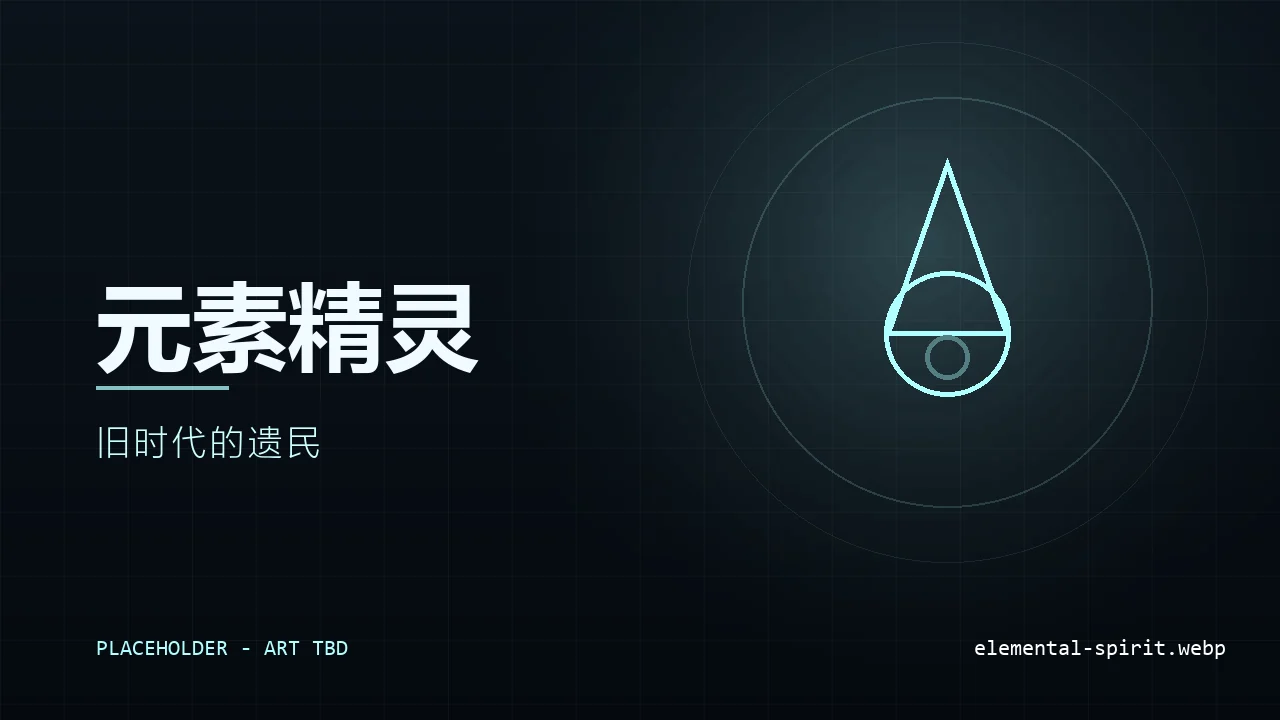
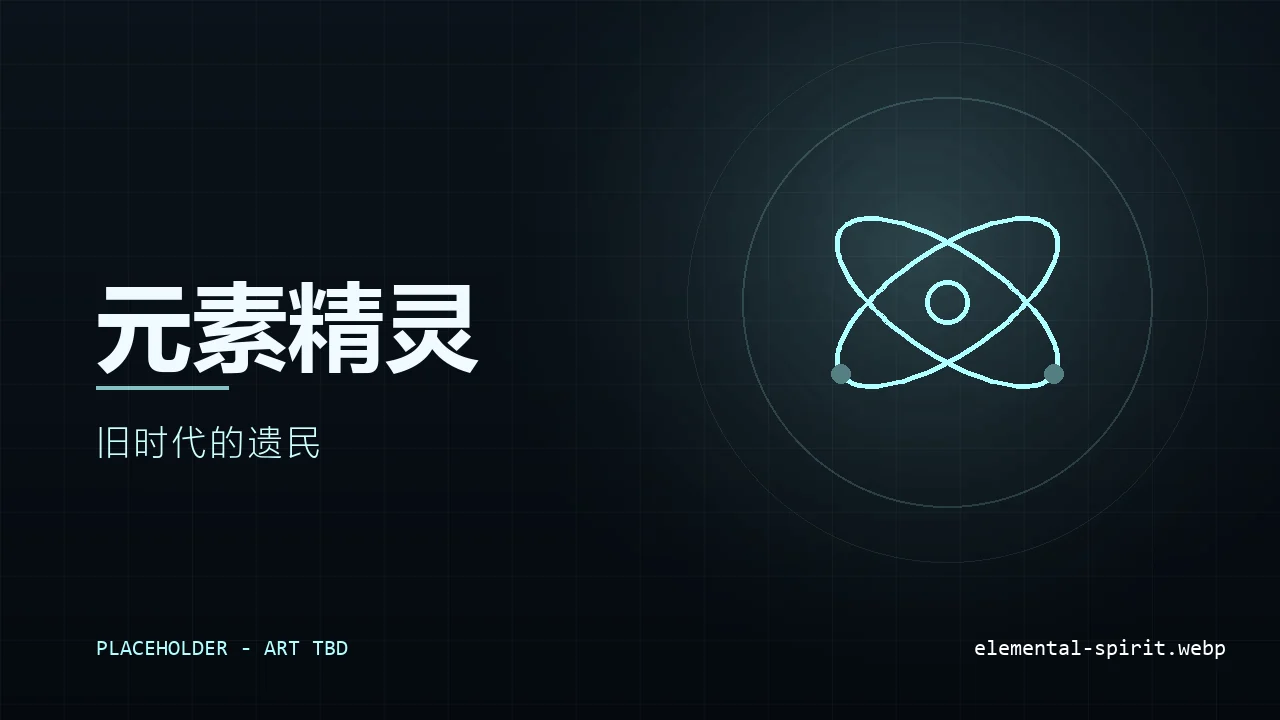
feat: 重画 8 枚种族徽记的符号
按反馈改了 13 枚占位徽记里的一批符号（仍是细线几何画法，没有换风格）：

- 元素精灵：水滴 → 原子（核 + 两条交叉轨道），突出「元素」
- 天翼种：翅膀 → 纸飞机（风）
- 晶裔：棱柱 → 切好的宝石（冠部收到腰线、亭部收成谷底）
- 雪狐一族：雪花侧枝压到 60°、长度只有主臂 1/6，中心加小六边形（原来像六支箭）
- 精灵族：菱形叶 → 两条对称弧拼的叶形，侧脉朝叶尖弯
- 血族：蔷薇 → 血滴，一笔闭合轮廓、不留中间横线
- 亚人：两块方块的「夹缝」→ 猫猫头
- 恶魔：修掉右边那道弧的角度（原来没做镜像，看着歪），两边现在对称

其余五枚（人类 / 龙族 / 天使 / 神界使 / 邪神）未动。
生成脚本 tools/build-race-badges.py 同步更新；产物 8 张 webp 重新生成。

构建 166 页；site-health 全绿。

Changed region(s): [[0.6562, 0.2139, 0.8438, 0.55], [0.8125, 0.3056, 0.8438, 0.3972], [0.625, 0.4889, 0.6562, 0.5194]]

diff --git a/tools/build-race-badges.py b/tools/build-race-badges.py
@@ -40,19 +40,24 @@ BASE_BOTTOM = (9, 17, 26)
 与站上的青色主调都能搭上。
 """
 RACES = [
-    ("elemental-spirit", "元素精灵", "#AFFFFF", "旧时代的遗民", "droplet"),
-    ("winged", "天翼种", "#8FD8FF", "未来过去的光影", "wing"),
-    ("crystal-kin", "晶裔", "#9BE7E0", "信息的闪光", "prism"),
+    # 「元素」用原子（核 + 两条轨道）—— 比一滴水更能说明这一族是什么
+    ("elemental-spirit", "元素精灵", "#AFFFFF", "旧时代的遗民", "atom"),
+    # 翅膀换成纸飞机：既是飞行，也顺着「风」的方向
+    ("winged", "天翼种", "#8FD8FF", "未来过去的光影", "plane"),
+    # 棱柱换成多面体：宝石的切面比单薄的菱形更像「晶体」
+    ("crystal-kin", "晶裔", "#9BE7E0", "信息的闪光", "polyhedron"),
     ("human", "人类", "#FFD68A", "新世界的火种", "flame"),
     ("elf", "精灵族", "#8FDC9B", "名为信仰的诅咒", "leaf"),
     ("snowfox", "雪狐一族", "#D8ECFF", "冰雪中的晶花", "snowflake"),
-    ("vampire", "血族", "#E06A7A", "染上血色的蔷薇", "rose"),
+    # 蔷薇换成血滴：这是血族，不是花店
+    ("vampire", "血族", "#E06A7A", "染上血色的蔷薇", "droplet"),
     ("dragon", "龙族", "#E8B45C", "天下无敌（物理）", "scale"),
     ("angel", "天使", "#F4E7A8", "秩序的维护者", "halo"),
     ("divine-envoy", "神界使", "#C9A8FF", "眼中再无星辰", "star"),
     ("demon", "恶魔", "#C0605F", "混乱的可能性", "horn"),
     ("evil-god", "邪神", "#A66BE0", "千分之一的可能", "eye"),
-    ("demi-human", "亚人", "#B9C6A8", "存在于新旧秩序的夹缝中", "duality"),
+    # 猫猫头：亚人先认这一支最直白的样子
+    ("demi-human", "亚人", "#B9C6A8", "存在于新旧秩序的夹缝中", "cat"),
 ]
 
 
@@ -95,57 +100,167 @@ def draw_glyph(draw, name, cx, cy, s, color):
     注意：PIL 的 polygon / arc 只吃整数坐标，这里统一把点取整 ——
     否则浮点会抛 TypeError（踩过）。
     """
+    cx, cy, s = round(cx), round(cy), s
+    line = max(3, round(s / 26))
+    fine = max(2, line - 1)
+    faint = mix(color, (10, 20, 30), 0.55)
+
     def P(pts):
         return [(round(x), round(y)) for x, y in pts]
 
     def box(x0, y0, x1, y1):
         return [round(x0), round(y0), round(x1), round(y1)]
 
-    cx, cy, s = round(cx), round(cy), s
-    line = max(3, round(s / 26))
-    faint = mix(color, (10, 20, 30), 0.55)
+    def stroke(pts, tone=None, width=None):
+        """折线：joint='curve' 让拐点不出现缺口（PIL 默认会在转角处断开）"""
+        draw.line(P(pts), fill=tone or color, width=width or line, joint="curve")
 
-    if name == "droplet":
-        # 用「圆 + 尖顶」拼水滴，比方块状的多边形顺眼
-        r = s * 0.46
-        draw.ellipse(box(cx - r, cy - r * 0.5, cx + r, cy + r * 1.5), outline=color, width=line)
-        draw.polygon(P([(cx, cy - s * 1.05), (cx + r * 0.98, cy + r * 0.52), (cx - r * 0.98, cy + r * 0.52)]), outline=color, width=line)
-        draw.ellipse(box(cx - s * 0.16, cy + s * 0.24, cx + s * 0.16, cy + s * 0.56), outline=faint, width=line)
-    elif name == "wing":
+    def ellipse_ring(rx, ry, rot=0.0, steps=120):
+        """可旋转的椭圆点列 —— PIL 只能画正的椭圆，斜的轨道得自己算"""
+        pts = []
+        for i in range(steps + 1):
+            t = 2 * math.pi * i / steps
+            ex, ey = math.cos(t) * rx, math.sin(t) * ry
+            pts.append(
+                (
+                    cx + ex * math.cos(rot) - ey * math.sin(rot),
+                    cy + ex * math.sin(rot) + ey * math.cos(rot),
+                )
+            )
+        return pts
+
+    if name == "atom":
+        # 「元素」最直白的写法：原子核 + 两条交叉轨道 + 两颗电子
+        r = s * 0.16
+        draw.ellipse(box(cx - r, cy - r, cx + r, cy + r), outline=color, width=line)
+        for rot in (math.radians(34), math.radians(-34)):
+            stroke(ellipse_ring(s * 0.94, s * 0.38, rot))
+        for rot, t in ((math.radians(34), 0.0), (math.radians(-34), math.pi)):
+            ex, ey = math.cos(t) * s * 0.94, math.sin(t) * s * 0.38
+            px = cx + ex * math.cos(rot) - ey * math.sin(rot)
+            py = cy + ex * math.sin(rot) + ey * math.cos(rot)
+            rr = s * 0.07
+            draw.ellipse(box(px - rr, py - rr, px + rr, py + rr), fill=faint)
+    elif name == "plane":
+        # 纸飞机：两块翼面沿中缝折起，尾巴留一个 V 口
+        nose = (cx + s * 0.98, cy - s * 0.52)
+        up_tip = (cx - s * 0.95, cy - s * 0.34)
+        fold = (cx - s * 0.08, cy - s * 0.02)
+        low_tip = (cx - s * 0.52, cy + s * 0.86)
+        draw.polygon(P([nose, up_tip, fold]), outline=color, width=line)
+        draw.polygon(P([nose, fold, low_tip]), outline=color, width=line)
+        stroke([nose, fold], faint, fine)
+    elif name == "polyhedron":
+        # 多面体：一颗切好的宝石 —— 冠部（顶边收到腰线）+ 腰线 + 亭部收成谷底
+        hw = s * 0.68
+        top = cy - s * 0.86
+        waist = cy - s * 0.22
+        bot = cy + s * 0.92
+        outline = [
+            (cx - hw * 0.58, top),
+            (cx + hw * 0.58, top),
+            (cx + hw, waist),
+            (cx, bot),
+            (cx - hw, waist),
+        ]
+        draw.polygon(P(outline), outline=color, width=line)
+        # 冠部：顶边两道斜面收到腰线
+        stroke(
+            [
+                (cx - hw * 0.58, top),
+                (cx - hw * 0.26, waist),
+                (cx + hw * 0.26, waist),
+                (cx + hw * 0.58, top),
+            ],
+            faint,
+            fine,
+        )
+        # 亭部：从腰线收到谷底
         for side in (-1, 1):
-            pts = [(cx, cy + s * 0.45)]
-            for i in range(4):
-                pts.append((cx + side * s * (0.42 + 0.34 * i), cy + s * (0.22 - 0.3 * i)))
-            pts.append((cx, cy - s * 0.15))
-            draw.polygon(P(pts), outline=color, width=line)
-        draw.ellipse(box(cx - s * 0.34, cy - s * 0.3, cx + s * 0.34, cy + s * 0.38), outline=faint, width=line)
-    elif name == "prism":
-        draw.polygon(P([(cx, cy - s * 0.9), (cx + s * 0.8, cy), (cx, cy + s * 0.9), (cx - s * 0.8, cy)]), outline=color, width=line)
-        for dx in (-0.45, 0, 0.45):
-            draw.line(P([(cx + s * dx, cy - s * 0.9 + abs(dx) * s), (cx + s * dx, cy + s * 0.9 - abs(dx) * s)]), fill=faint, width=max(2, line - 1))
+            stroke([(cx + side * hw, waist), (cx, bot)], faint, fine)
     elif name == "flame":
-        draw.polygon(P([(cx, cy - s), (cx + s * 0.55, cy + s * 0.1), (cx + s * 0.22, cy + s * 0.8), (cx - s * 0.22, cy + s * 0.8), (cx - s * 0.55, cy + s * 0.1)]), outline=color, width=line)
-        draw.polygon(P([(cx, cy - s * 0.1), (cx + s * 0.2, cy + s * 0.55), (cx - s * 0.2, cy + s * 0.55)]), outline=faint, width=line)
+        draw.polygon(
+            P(
+                [
+                    (cx, cy - s),
+                    (cx + s * 0.55, cy + s * 0.1),
+                    (cx + s * 0.22, cy + s * 0.8),
+                    (cx - s * 0.22, cy + s * 0.8),
+                    (cx - s * 0.55, cy + s * 0.1),
+                ]
+            ),
+            outline=color,
+            width=line,
+        )
+        draw.polygon(
+            P([(cx, cy - s * 0.1), (cx + s * 0.2, cy + s * 0.55), (cx - s * 0.2, cy + s * 0.55)]),
+            outline=faint,
+            width=line,
+        )
     elif name == "leaf":
-        draw.polygon(P([(cx, cy - s * 0.95), (cx + s * 0.62, cy), (cx, cy + s * 0.95), (cx - s * 0.62, cy)]), outline=color, width=line)
-        draw.line(P([(cx, cy - s * 0.9), (cx, cy + s * 0.9)]), fill=faint, width=max(2, line - 1))
-        for k in (-0.45, 0, 0.45):
-            draw.line(P([(cx, cy + s * k), (cx + s * 0.5, cy + s * k - s * 0.34)]), fill=faint, width=max(2, line - 1))
-            draw.line(P([(cx, cy + s * k), (cx - s * 0.5, cy + s * k - s * 0.34)]), fill=faint, width=max(2, line - 1))
+        # 叶：两条对称的弧拼出叶形（菱形太硬），中脉 + 三对朝叶尖弯的侧脉
+        tip_y, base_y = cy - s * 0.98, cy + s * 0.88
+        for side in (-1, 1):
+            pts = []
+            for i in range(41):
+                t = i / 40
+                half = s * 0.60 * (math.sin(math.pi * t) ** 0.8)
+                pts.append((cx + side * half, base_y + (tip_y - base_y) * t))
+            stroke(pts)
+        stroke([(cx, tip_y), (cx, base_y)], faint, fine)
+        for f in (0.28, 0.48, 0.68):
+            y0 = base_y + (tip_y - base_y) * f
+            half = s * 0.60 * (math.sin(math.pi * f) ** 0.8)
+            for side in (-1, 1):
+                stroke([(cx, y0), (cx + side * half * 0.78, y0 - s * 0.20)], faint, fine)
     elif name == "snowflake":
+        # 雪花：六道主臂 + 短侧枝 + 中心小六边形。
+        # 侧枝原来又长又朝外，看着像六支箭；现在压短、压低角度。
         for i in range(6):
             a = math.radians(60 * i - 90)
-            x2, y2 = cx + math.cos(a) * s, cy + math.sin(a) * s
-            draw.line(P([(cx, cy), (x2, y2)]), fill=color, width=line)
-            for f in (0.55, 0.78):
-                bx, by = cx + math.cos(a) * s * f, cy + math.sin(a) * s * f
-                for da in (-0.6, 0.6):
-                    draw.line(P([(bx, by), (bx + math.cos(a + da) * s * 0.26, by + math.sin(a + da) * s * 0.26)]), fill=faint, width=max(2, line - 1))
-    elif name == "rose":
-        draw.ellipse(box(cx - s * 0.62, cy - s * 0.95, cx + s * 0.62, cy + s * 0.29), outline=color, width=line)
-        draw.ellipse(box(cx - s * 0.34, cy - s * 0.64, cx + s * 0.34, cy - s * 0.02), outline=faint, width=line)
-        draw.line(P([(cx, cy + s * 0.29), (cx, cy + s * 0.98)]), fill=color, width=line)
-        draw.line(P([(cx, cy + s * 0.62), (cx + s * 0.46, cy + s * 0.34)]), fill=faint, width=line)
+            stroke([(cx, cy), (cx + math.cos(a) * s * 0.98, cy + math.sin(a) * s * 0.98)])
+            for f in (0.38, 0.64):
+                bx = cx + math.cos(a) * s * f
+                by = cy + math.sin(a) * s * f
+                # 侧枝压到 60°、长度只有主臂的 1/6 —— 再长就成箭头了
+                for da in (-1.05, 1.05):
+                    stroke(
+                        [
+                            (bx, by),
+                            (bx + math.cos(a + da) * s * 0.16, by + math.sin(a + da) * s * 0.16),
+                        ],
+                        faint,
+                        fine,
+                    )
+        r0 = s * 0.15
+        draw.polygon(
+            P(
+                [
+                    (cx + math.cos(math.radians(60 * k - 90)) * r0, cy + math.sin(math.radians(60 * k - 90)) * r0)
+                    for k in range(6)
+                ]
+            ),
+            outline=color,
+            width=fine,
+        )
+    elif name == "droplet":
+        # 血滴：一笔闭合的轮廓（尖顶 + 圆底），中间不留横线
+        r = s * 0.50
+        cy_c = cy + s * 0.50
+        pts = [(cx, cy - s * 1.05)]
+        for k in range(61):
+            a = math.pi * (1 - k / 60)
+            pts.append((cx + math.cos(a) * r, cy_c + math.sin(a) * r))
+        pts.append((cx, cy - s * 1.05))
+        draw.polygon(P(pts), outline=color, width=line)
+        # 左上角一点高光，斜着的短弧，比画一个圆圈干净
+        draw.arc(
+            box(cx - s * 0.36, cy + s * 0.10, cx - s * 0.02, cy + s * 0.44),
+            120,
+            250,
+            fill=faint,
+            width=fine,
+        )
     elif name == "scale":
         r = s * 0.34
         for row, y in enumerate((cy - s * 0.6, cy - s * 0.12, cy + s * 0.36)):
@@ -160,7 +275,16 @@ def draw_glyph(draw, name, cx, cy, s, color):
         draw.ellipse(box(cx - s * 0.86, cy - s * 1.06, cx + s * 0.86, cy - s * 0.62), outline=faint, width=line)
         for i in range(8):
             a = math.radians(45 * i)
-            draw.line(P([(cx + math.cos(a) * s * 0.74, cy + math.sin(a) * s * 0.74), (cx + math.cos(a) * s * 0.96, cy + math.sin(a) * s * 0.96)]), fill=faint, width=max(2, line - 1))
+            draw.line(
+                P(
+                    [
+                        (cx + math.cos(a) * s * 0.74, cy + math.sin(a) * s * 0.74),
+                        (cx + math.cos(a) * s * 0.96, cy + math.sin(a) * s * 0.96),
+                    ]
+                ),
+                fill=faint,
+                width=max(2, line - 1),
+            )
     elif name == "star":
         pts = []
         for i in range(10):
@@ -170,19 +294,63 @@ def draw_glyph(draw, name, cx, cy, s, color):
         draw.polygon(P(pts), outline=color, width=line)
         draw.ellipse(box(cx - s * 0.16, cy - s * 0.16, cx + s * 0.16, cy + s * 0.16), fill=faint)
     elif name == "horn":
+        # 恶魔：左右各一道角 + 中间一个三角。
+        # 原来右边那道弧用了 260→40，左边是 200→340 —— 角度没做镜像，看着就是歪的。
+        # 现在两边都用 200→340，靠左右翻过来的圆框得到天然对称。
         for side in (-1, 1):
-            draw.arc(box(cx + side * s * 0.95 - s * 0.95, cy - s * 0.95, cx + side * s * 0.95 + s * 0.95, cy + s * 0.95),
-                     200 if side < 0 else 260, 340 if side < 0 else 40, fill=color, width=line)
-        draw.polygon(P([(cx - s * 0.5, cy + s * 0.85), (cx, cy - s * 0.15), (cx + s * 0.5, cy + s * 0.85)]), outline=faint, width=line)
+            ox = cx + side * s * 0.95
+            draw.arc(
+                box(ox - s * 0.95, cy - s * 0.95, ox + s * 0.95, cy + s * 0.95),
+                200,
+                340,
+                fill=color,
+                width=line,
+            )
+        draw.polygon(
+            P([(cx - s * 0.5, cy + s * 0.85), (cx, cy - s * 0.15), (cx + s * 0.5, cy + s * 0.85)]),
+            outline=faint,
+            width=line,
+        )
     elif name == "eye":
         draw.arc(box(cx - s, cy - s * 0.72, cx + s, cy + s * 0.72), 200, 340, fill=color, width=line)
         draw.arc(box(cx - s, cy - s * 0.72, cx + s, cy + s * 0.72), 20, 160, fill=color, width=line)
         draw.ellipse(box(cx - s * 0.22, cy - s * 0.22, cx + s * 0.22, cy + s * 0.22), outline=faint, width=line)
         draw.ellipse(box(cx - s * 0.06, cy - s * 0.16, cx + s * 0.06, cy + s * 0.16), fill=faint)
-    elif name == "duality":
-        draw.polygon(P([(cx - s * 0.16, cy - s * 0.9), (cx + s * 0.16, cy - s * 0.9), (cx + s * 0.16, cy + s * 0.9), (cx - s * 0.16, cy + s * 0.9)]), fill=faint)
-        draw.polygon(P([(cx - s * 0.92, cy - s * 0.6), (cx - s * 0.15, cy - s * 0.6), (cx - s * 0.15, cy + s * 0.6), (cx - s * 0.92, cy + s * 0.6)]), outline=color, width=line)
-        draw.polygon(P([(cx + s * 0.15, cy - s * 0.6), (cx + s * 0.92, cy - s * 0.6), (cx + s * 0.92, cy + s * 0.6), (cx + s * 0.15, cy + s * 0.6)]), outline=color, width=line)
+    elif name == "cat":
+        # 猫猫头：圆脸 + 两只三角耳 + 两点眼 + 一个小鼻子
+        head = s * 0.74
+        draw.ellipse(
+            box(cx - head, cy - head * 0.80, cx + head, cy + head * 1.04), outline=color, width=line
+        )
+        for side in (-1, 1):
+            ex = cx + side * head * 0.56
+            draw.polygon(
+                P(
+                    [
+                        (ex - side * head * 0.22, cy - head * 0.62),
+                        (ex + side * head * 0.18, cy - head * 1.32),
+                        (ex + side * head * 0.54, cy - head * 0.36),
+                    ]
+                ),
+                outline=color,
+                width=line,
+            )
+        for side in (-1, 1):
+            exx = cx + side * head * 0.34
+            eyy = cy - head * 0.08
+            draw.ellipse(
+                box(exx - s * 0.055, eyy - s * 0.075, exx + s * 0.055, eyy + s * 0.075), fill=faint
+            )
+        draw.polygon(
+            P(
+                [
+                    (cx - s * 0.08, cy + head * 0.18),
+                    (cx + s * 0.08, cy + head * 0.18),
+                    (cx, cy + head * 0.32),
+                ]
+            ),
+            fill=faint,
+        )
 
 
 def letter_spaced(draw, xy, text, font, fill, spacing=0):

diff --git a/src/content/blog/site-changelog.md b/src/content/blog/site-changelog.md
@@ -9,6 +9,23 @@ heroImage: '../../assets/oc/blog-hero.webp'
 
 ---
 
+## 2026-10-19　种族徽记的符号改了一批
+
+13 枚占位徽记（`tools/build-race-badges.py` 生成）里，按意见改了 8 个符号 —— 全是基本图形拼的细线画法，没换风格：
+
+| 族 | 原来 | 现在 |
+| --- | --- | --- |
+| 元素精灵 | 一滴水 | **原子**（核 + 两条交叉轨道）—— 比一滴水更能说明「元素」 |
+| 天翼种 | 翅膀 | **纸飞机** —— 既是飞行，也顺着「风」 |
+| 晶裔 | 棱柱 | **切好的宝石**：冠部收到腰线，亭部收成谷底 |
+| 雪狐一族 | 雪花（侧枝太长，看着像六支箭） | 侧枝压到 60°、长度只有主臂的 1/6，中心补一个小六边形 |
+| 精灵族 | 菱形叶（脉络是横线，太硬） | 两条对称弧拼的叶形 + 朝叶尖弯的三对侧脉 |
+| 血族 | 蔷薇 | **血滴** —— 一笔闭合的轮廓，没留中间的横线 |
+| 亚人 | 两个方块夹出来的「夹缝」 | **猫猫头** |
+| 恶魔 | 左右两道角；**右边那道圆弧的角度没做镜像，看着是歪的** | 两边同角度、由翻过来的圆框得到对称 |
+
+其余五枚（人类火苗、龙族鳞、天使光环、神界使星、邪神之眼）没动，13 枚还是同一套手感。
+
 ## 2026-10-19　图池收一张白茶送的淼渺
 
 白茶画的赠图（图上有他自己的落款），收进图池：记在**淼渺**名下、分类 **同人**，所以淼渺的角色页和画廊里都能看到。图池 179 → 180 张。
